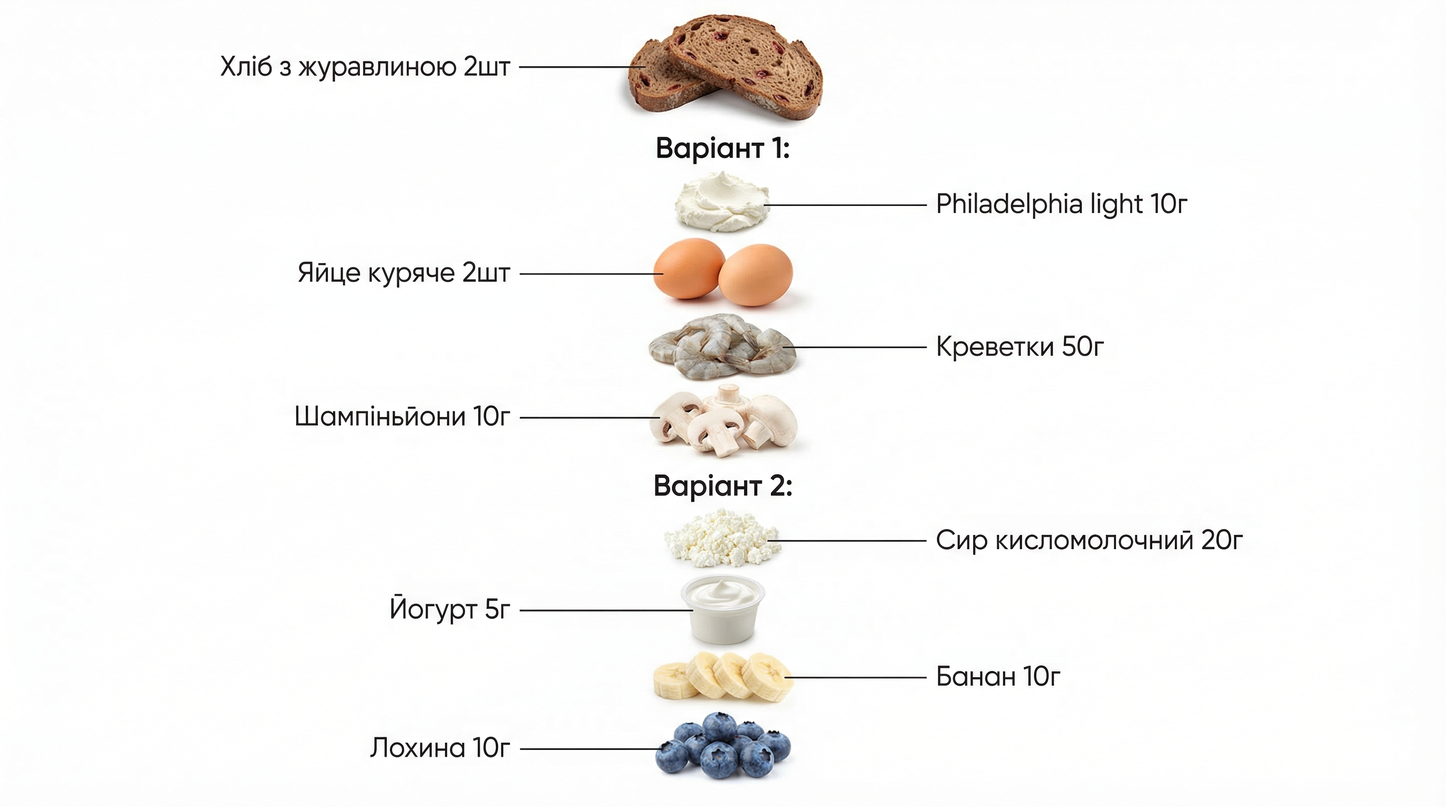
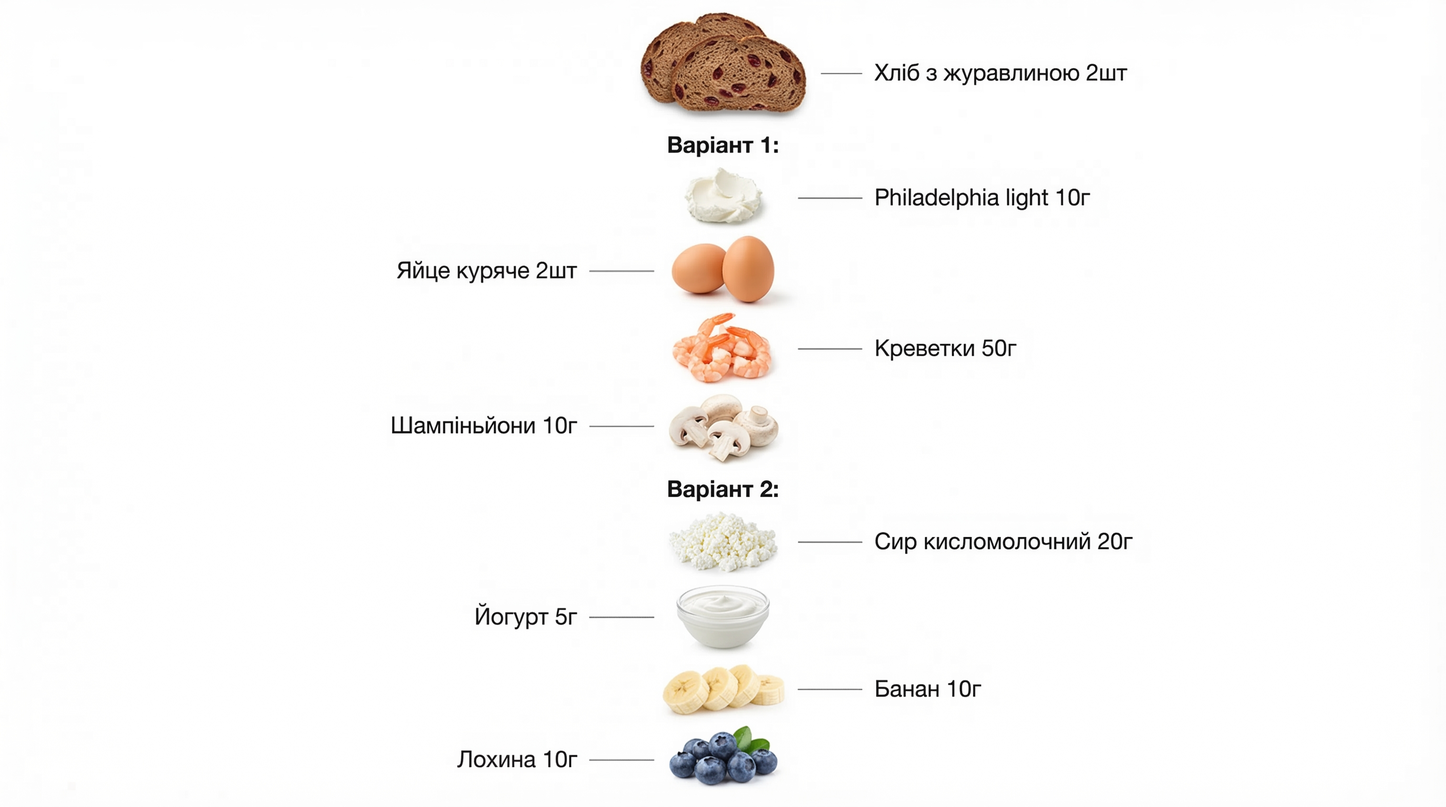
fix: breakfast_3 ingredients - shrimp not salmon

diff --git a/lib/recipe-loader.ts b/lib/recipe-loader.ts
@@ -2,7 +2,7 @@ import type { RecipeData } from "@/types/recipe"
 import recipesData from "@/data/recipes.json"
 
 // Cache-busting version - increment when updating images/videos
-const ASSET_VERSION = "v25"
+const ASSET_VERSION = "v26"
 
 /**
  * Loads and validates recipe data from recipes.json
